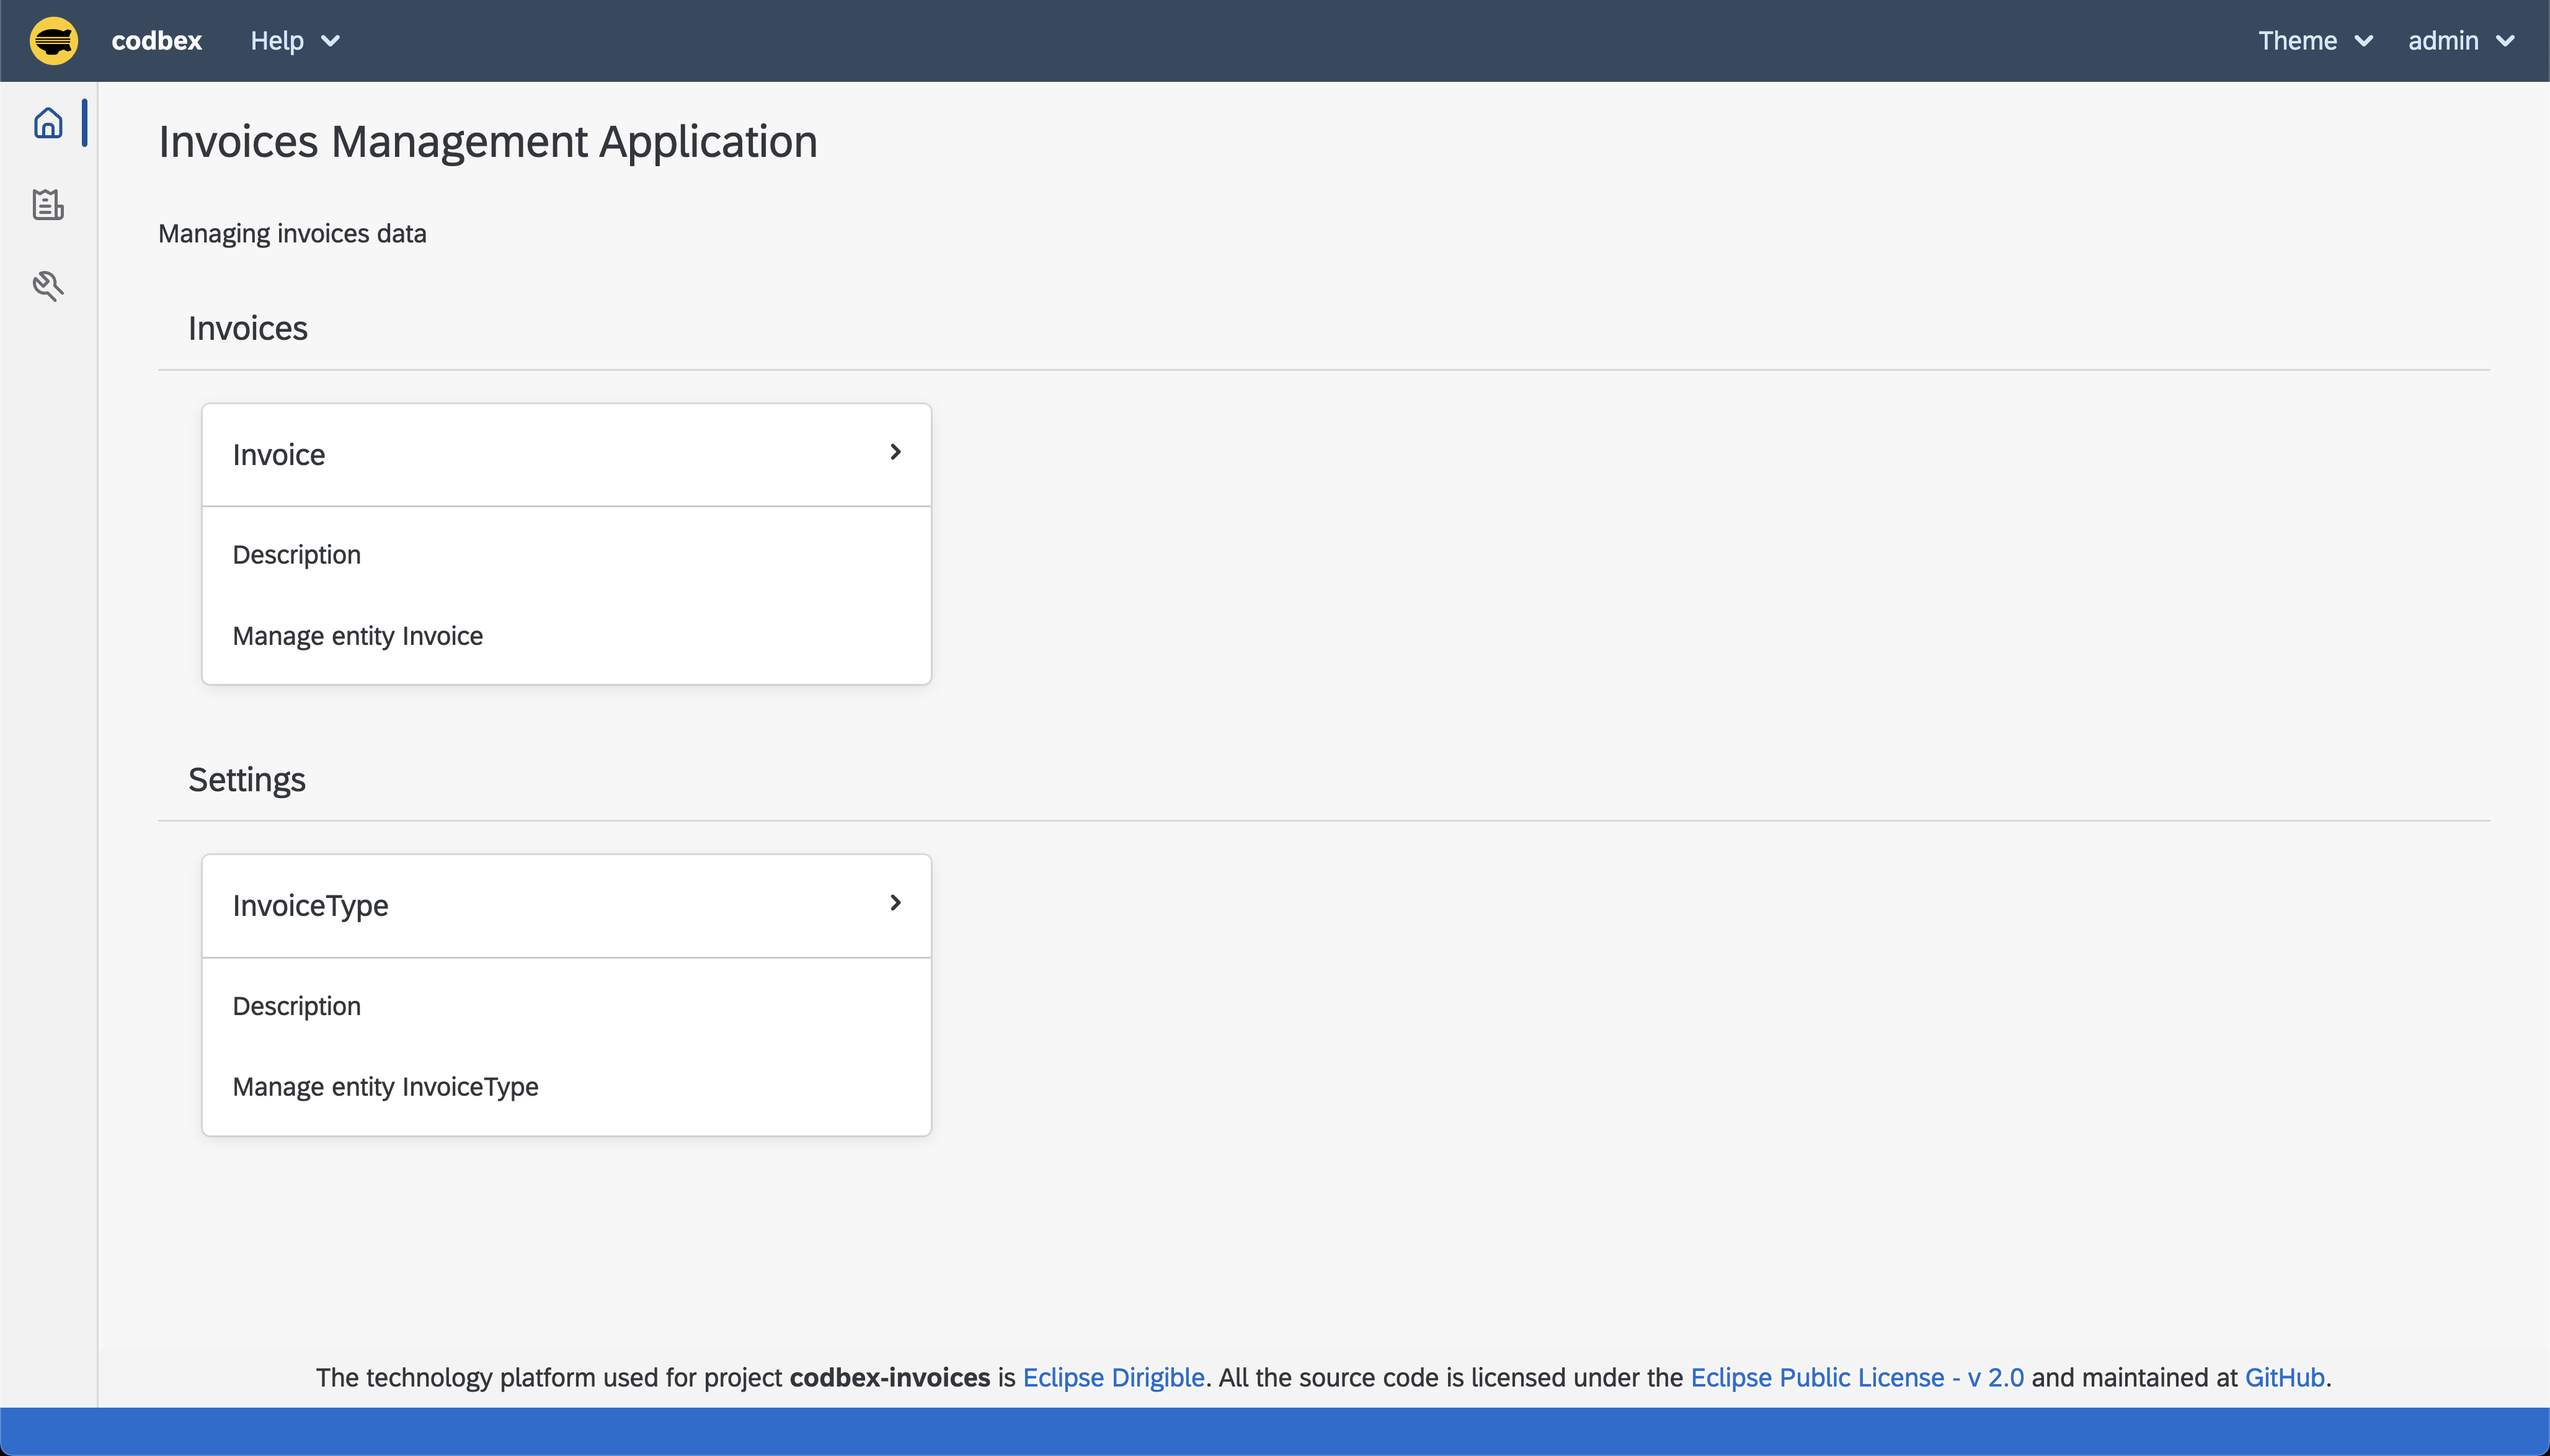
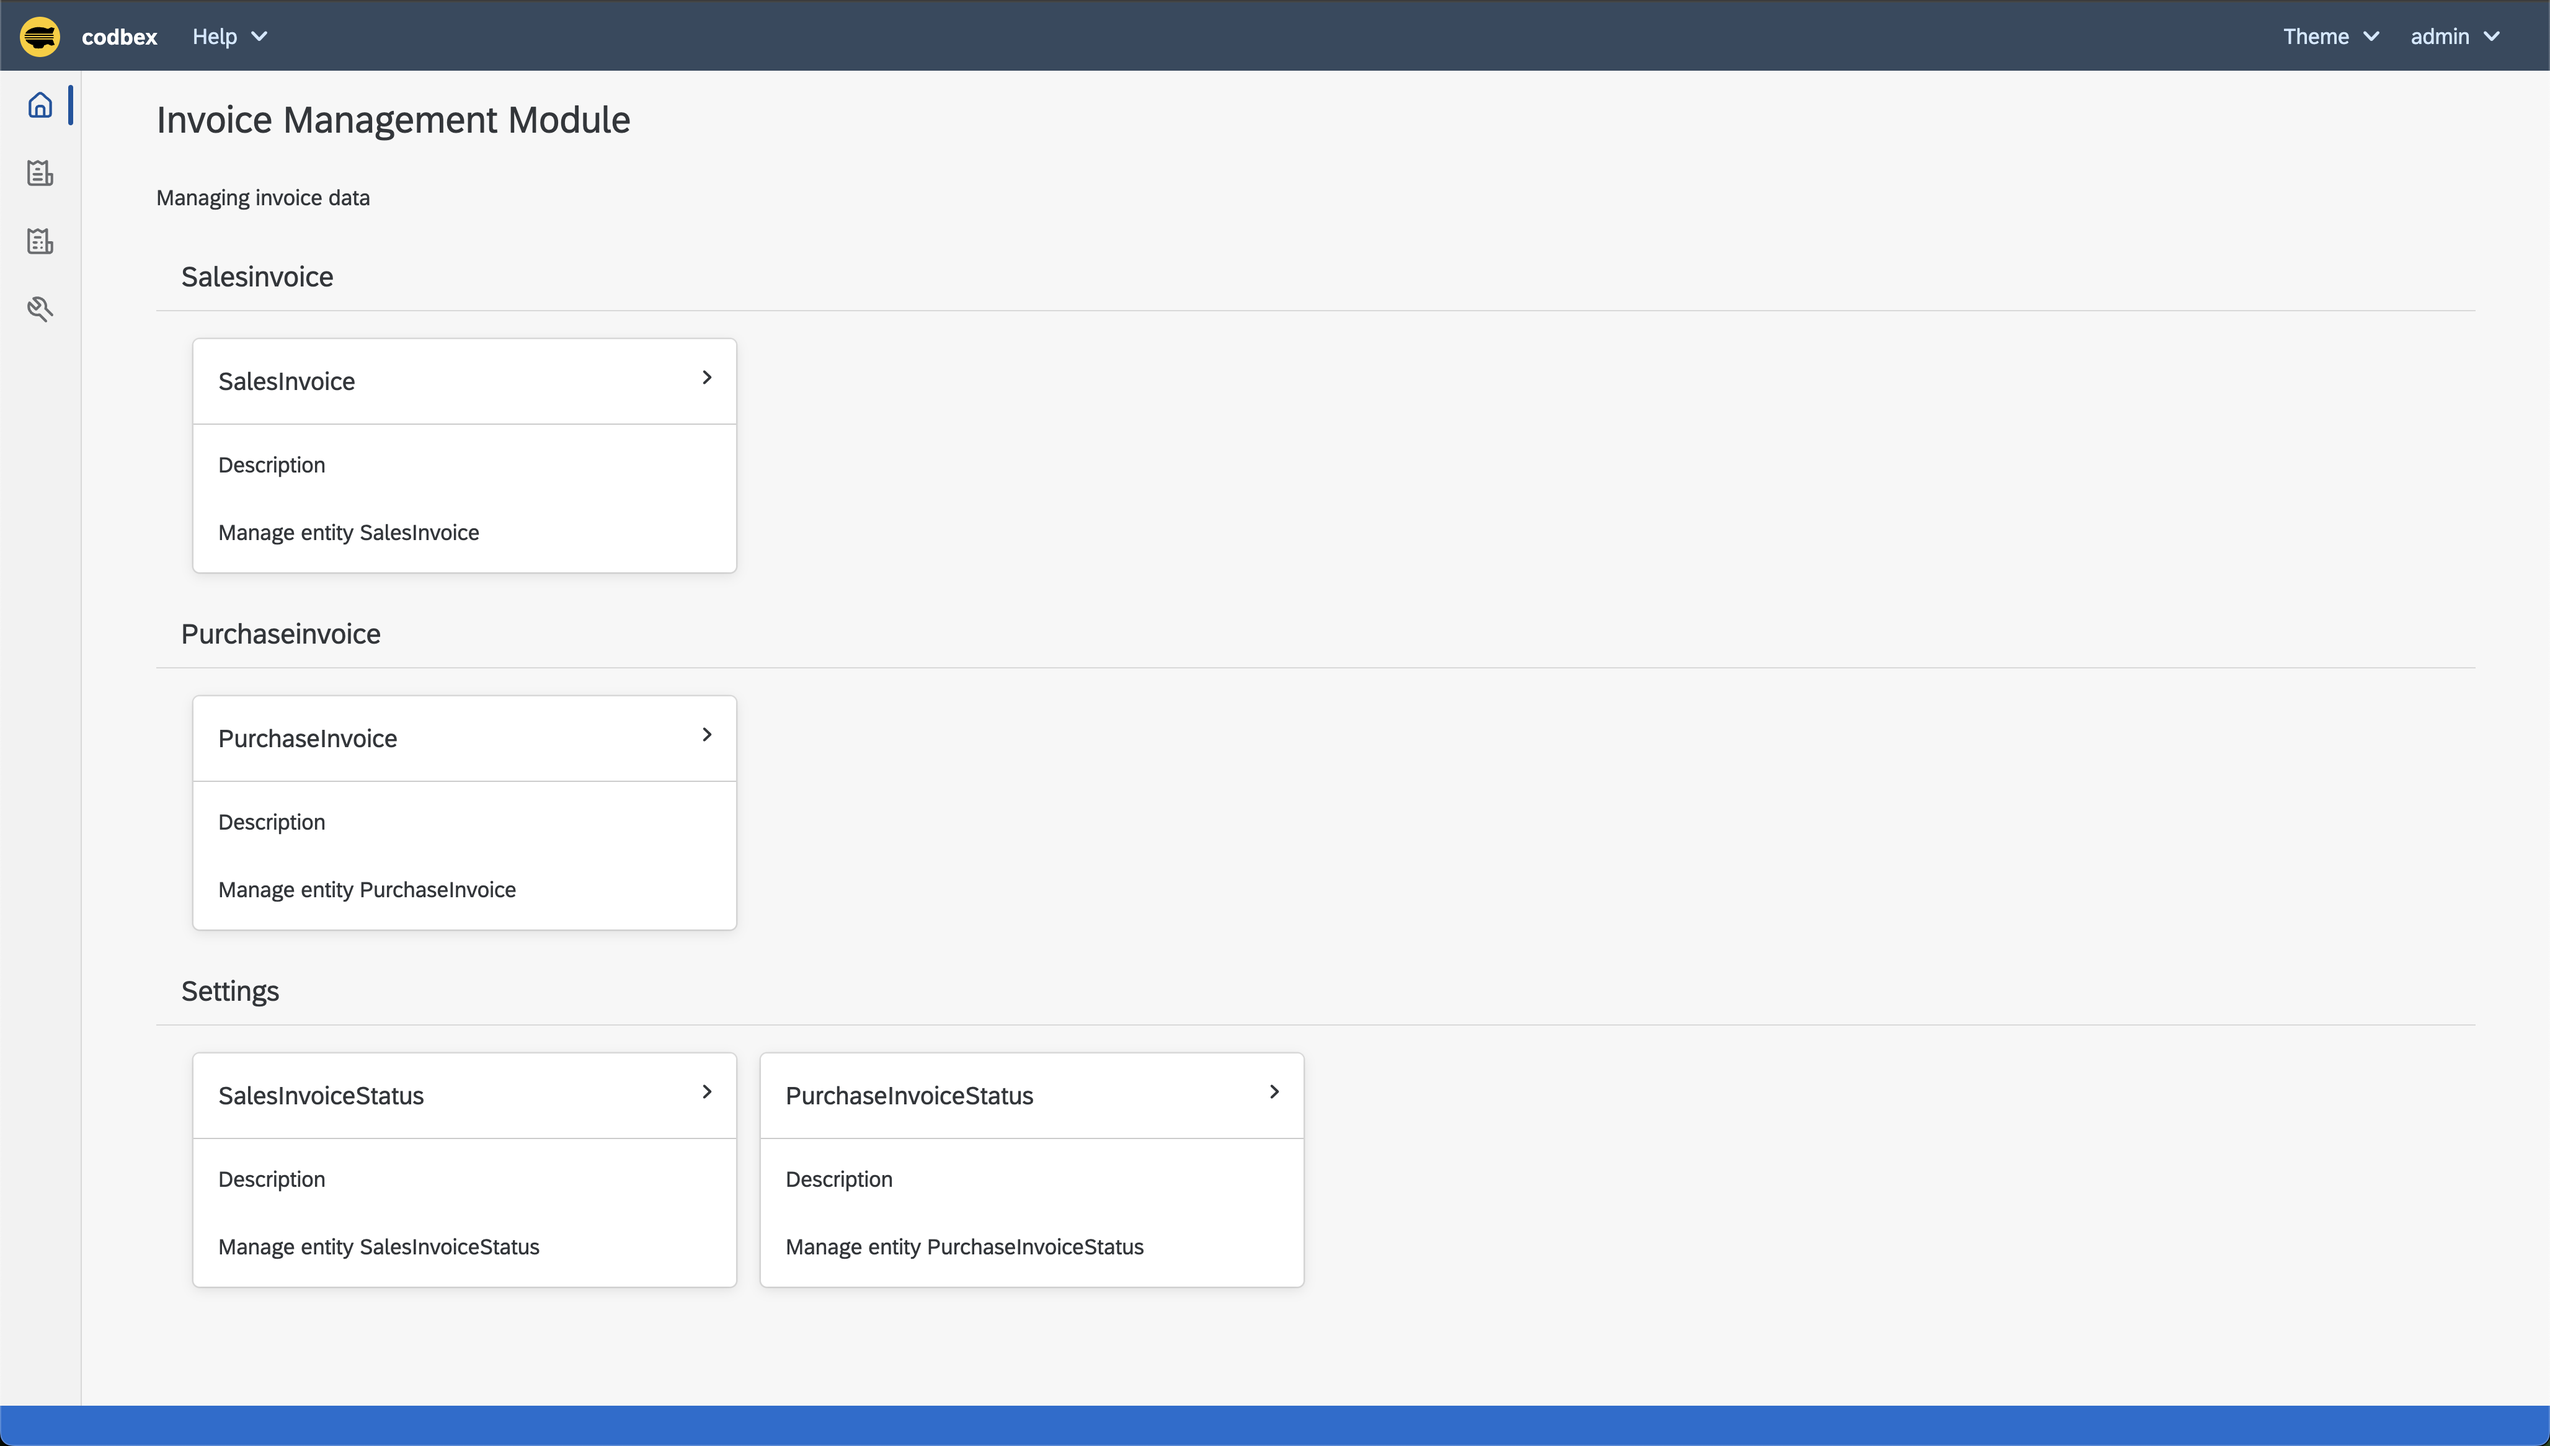
Update readme

diff --git a/README.md b/README.md
@@ -14,6 +14,8 @@
 
 #### Management
 
-![model](images/invoices-management.png)
+![model](images/invoices-sales-invoices.png)
 
-![model](images/invoices-invoice-type.png)
+![model](images/invoices-purchase-invoices.png)
+
+![model](images/invoices-statuses.png)
